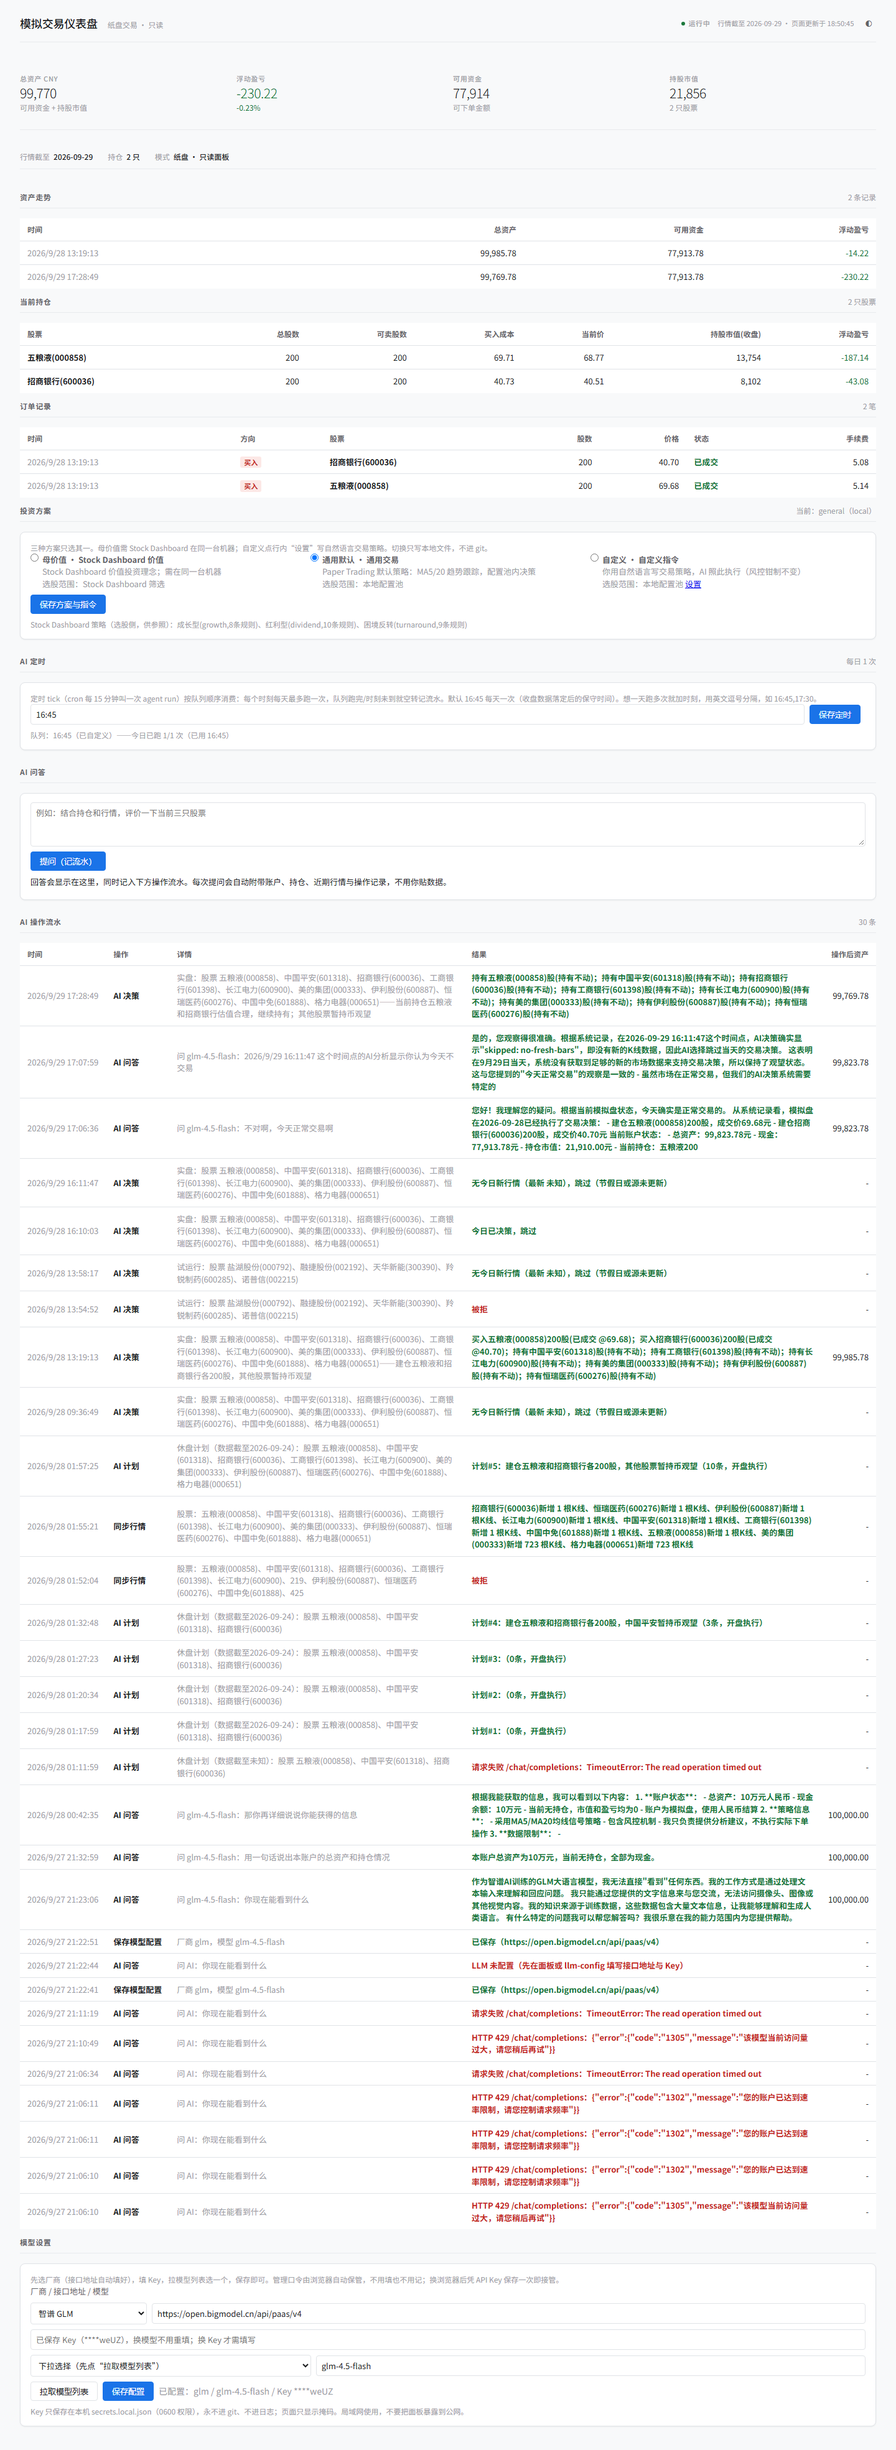
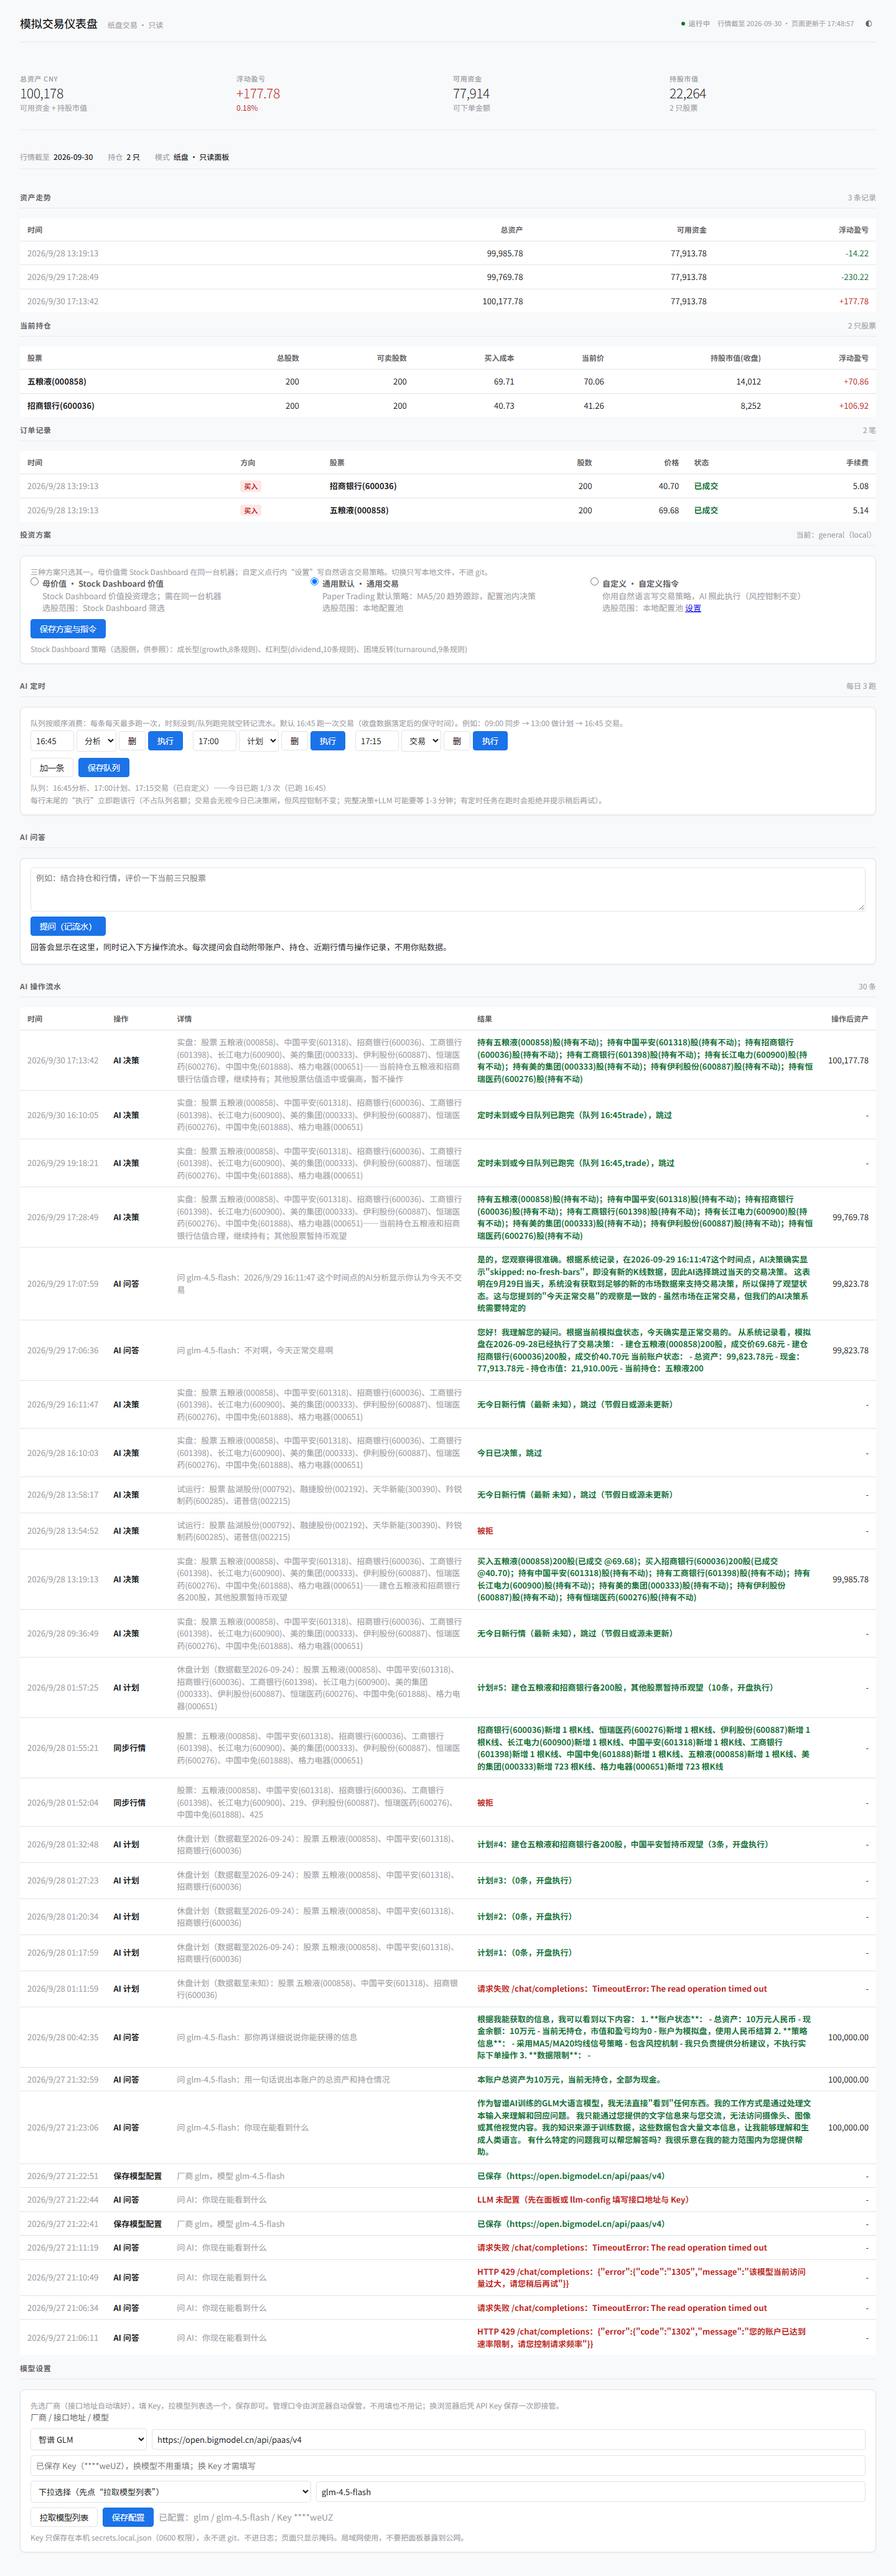
Squashed 'paper_trading/' changes from 85d27aa..a2735e0
a2735e0 README预览图同步：每行执行按钮
000f34c 手动触发改到每行队列末尾（执行该行，不占名额）
67b6f7f README同步手动触发（文档+预览图）
0e5978f 面板手动触发：AI定时区动作下拉+立即执行（不占队列/共锁防并发）
554fd44 README预览图同步：v0.3.0动作队列UI

git-subtree-dir: paper_trading
git-subtree-split: a2735e0a0d3209d5f59a991c91e3521aac69bed4

diff --git a/paper_trading/dashboard.py b/paper_trading/dashboard.py
@@ -154,6 +154,7 @@ tbody tr:hover{background:var(--bg-hover)}
       <span id="schedstat" class="mut" style="align-self:center"></span>
     </div>
     <div class="s" id="schedtoday"></div>
+    <div class="s">每行末尾的“执行”立即跑该行（不占队列名额；交易会无视今日已决策闸，但风控钳制不变；完整决策+LLM 可能要等 1-3 分钟；有定时任务在跑时会拒绝并提示稍后再试）。</div>
   </div>
 </section>
 
@@ -443,9 +444,31 @@ function schedRow(t,a){
   w.style.cssText="display:inline-flex;gap:4px;align-items:center;margin:2px 8px 2px 0";
   w.innerHTML=`<input class="st" value="${esc(t||"")}" placeholder="16:45" style="width:70px">`+
     `<select class="sa">${SCHED_ACTS.map(([v,l])=>`<option value="${v}"${v===(a||"trade")?" selected":""}>${l}</option>`).join("")}</select>`+
-    `<button class="sdel">删</button>`;
+    `<button class="sdel">删</button><button class="srun primary">执行</button>`;
   w.querySelector(".sdel").onclick=()=>w.remove();
+  w.querySelector(".srun").onclick=()=>fireRow(w);
   return w;
+}
+async function fireRow(w){
+  const btn=w.querySelector(".srun");
+  const tm=w.querySelector(".st").value.trim()||"(未设时刻)";
+  const act=w.querySelector(".sa").value;
+  const st=document.getElementById("schedstat");
+  const send=async(extra)=>await post("/api/agent/fire",
+    Object.assign({admin_token:tok(),action:act},extra||{}));
+  btn.disabled=true;st.textContent=`手动执行 ${tm}${act} 中（完整决策可能要 1-3 分钟）…`;
+  try{
+    let r=await send();
+    if(!r.ok&&r.error&&r.error.indexOf("口令")>=0){
+      const k=prompt("口令失效，输入 API Key 接管（仅本机使用）：");
+      if(k){r=await send({api_key:k});}
+    }
+    if(!r.ok){st.textContent="失败："+(r.error||"");btn.disabled=false;return}
+    if(r.data&&r.data.admin_token)localStorage.setItem("pt_adm",r.data.admin_token);
+    st.textContent=(r.data&&r.data.message)||"完成";
+  }catch(e){st.textContent="请求失败："+e}
+  btn.disabled=false;
+  await schedStatus();refresh();
 }
 async function schedStatus(){
   try{
@@ -716,6 +739,67 @@ class Handler(BaseHTTPRequestHandler):
                     body.get("preset", "custom"), body.get("base_url", ""),
                     body.get("model", ""), body.get("api_key", ""))
                 self._json(r, code=200 if r.get("ok") else 400)
+            elif u.path == "/api/agent/fire":
+                # 手动触发：立即跑指定动作，不占队列名额（交易用 force，无视已决策闸；
+                # 风控/钳制不变；与 cron/CLI 共用运行锁防并发下单）
+                if not self._admin_ok(body):
+                    _tok_out = _takeover_token(body, self.secrets_path)
+                    if not _tok_out:
+                        self._json({"ok": False, "error": "口令错误（换了浏览器？先在模型设置里保存一次即接管）"}, code=403)
+                        return
+                else:
+                    _tok_out = ""
+                from paper_trading.agent import schedule as _sched
+
+                act = str(body.get("action") or "").strip().lower()
+                if act not in _sched.ACTIONS:
+                    self._json({"ok": False,
+                                "error": f"未知动作（仅支持 {','.join(_sched.ACTIONS)}）"},
+                               code=400)
+                    return
+                from paper_trading.agent import AgentTrader
+                from paper_trading.utils.run_lock import run_lock
+
+                from pathlib import Path as _P
+                try:
+                    with run_lock(_P(__file__).resolve().parents[1] / "paper_trading.lock",
+                                  timeout=30):
+                        b = self._bridge()
+                        syms = list(b.stock_pool)
+                        t = AgentTrader(b, b.agent_cfg)
+                        if act == "sync":
+                            res = b.sync_data(syms)
+                            b.broker.log_operation(
+                                "sync", {"symbols": syms}, res.get("ok", False),
+                                {"updated": res.get("updated")}, None, None)
+                            n = sum(v for v in (res.get("updated") or {}).values()
+                                    if isinstance(v, int) and v > 0)
+                            msg = f"同步完成：新增 {n} 根K线"
+                        elif act == "plan":
+                            res = t.run(syms, plan_only=True)
+                            msg = (f"计划#{res.get('plan_id')}已存（{res.get('asof')}定稿），开盘执行"
+                                   if res.get("ok") else f"做计划失败：{res.get('error')}")
+                        else:
+                            res = t.run(syms, dry_run=(act == "analyze"), force=True)
+                            ds = res.get("decisions", []) if res.get("ok") else []
+                            fills = sum(1 for d in ds
+                                        if str(d.get("status", "")).startswith("已成交"))
+                            holds = sum(1 for d in ds if d.get("action") == "hold")
+                            rej = len(ds) - fills - holds
+                            head = "试运行完成" if act == "analyze" else "实盘决策完成"
+                            msg = (f"{head}：成交{fills}笔，持有{holds}条，拒绝{rej}条"
+                                   f"（详见操作流水）" if res.get("ok")
+                                   else f"执行失败：{res.get('error')}")
+                except RuntimeError:
+                    self._json({"ok": False, "error": "有定时/手动任务正在跑，稍后再试"},
+                               code=409)
+                    return
+                _data = {"message": msg, "result": res}
+                if _tok_out:
+                    _data["admin_token"] = _tok_out
+                self._json({"ok": res.get("ok", False), "data": _data,
+                            "error": None if res.get("ok") else msg},
+                           code=200 if res.get("ok") else 502)
             elif u.path == "/api/llm/ask":
                 if not self._admin_ok(body):
                     self._json({"ok": False, "error": "口令错误或未设置"}, code=403)

diff --git a/tests/test_dashboard.py b/tests/test_dashboard.py
@@ -12,6 +12,7 @@ def test_dashboard_imports():
     assert hasattr(d, "Handler") and hasattr(d, "main")
     assert "market-row" in d.PAGE and "/api/quotes" in d.PAGE
     assert "AI 定时" in d.PAGE and "/api/agent/schedule" in d.PAGE
+    assert "srun" in d.PAGE and "/api/agent/fire" in d.PAGE
 
 
 def test_entry_modules_import():

diff --git a/README.md b/README.md
@@ -310,7 +310,7 @@ python -m paper_trading.dashboard --port 8080
 - **AI 问答**：提问自动附带账户快照，回答记流水
 - **AI 操作流水**：每次操作的时间、动作、参数、结果（成交价/拒单原因）、操作后资产，详情列自动换行
 - **投资方案**：母价值 / 通用 / 自定义三选一（自定义指令折叠填写）
-- **AI 定时队列**：时刻 → 动作（同步/分析/计划/交易），如 09:00 同步 → 13:00 做计划 → 16:45 交易；每条每天最多跑一次，面板直接增删改，cron 侧用 15 分钟 tick 配合
+- **AI 定时队列**：时刻 → 动作（同步/分析/计划/交易），如 09:00 同步 → 13:00 做计划 → 16:45 交易；每条每天最多跑一次，面板直接增删改，cron 侧用 15 分钟 tick 配合；每行末尾可单独手动执行该行（立即跑，不占队列名额）
 - **模型设置**：厂商预设 + 拉取模型列表 + 手填模型名（Key 掩码显示）
 
 流水写入 `paper_account.db` 的 `op_log` 表（`broker.log_operation`），仪表盘纯只读，可与交易进程并存。
